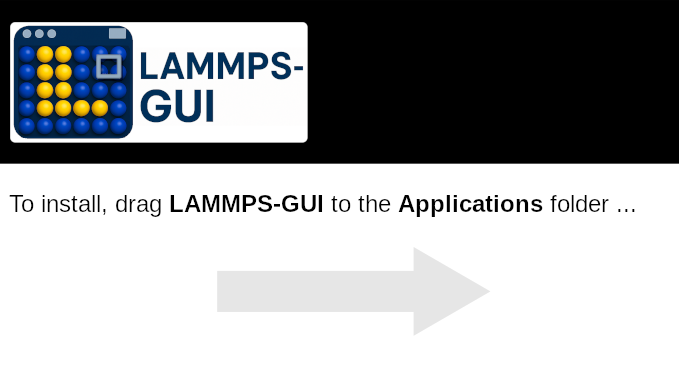
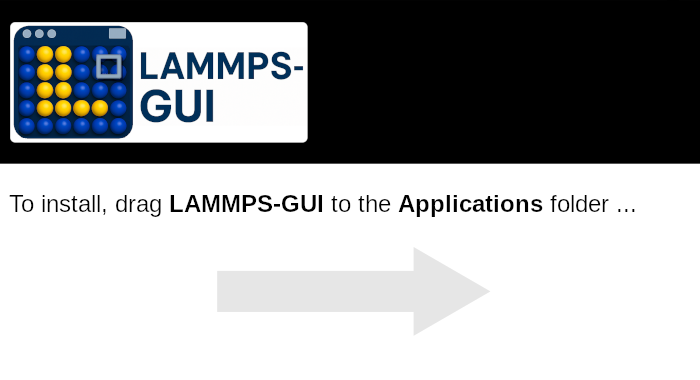
update background image and resize window one more time

diff --git a/packaging/dmg_settings.py b/packaging/dmg_settings.py
@@ -29,7 +29,7 @@ background = defines["background"]
 icon = defines.get("icon")
 
 # window width matches the background; the height adds ~24pt for the title bar
-window_rect = ((100, 100), (514, 340))
+window_rect = ((100, 100), (520, 350))
 default_view = "icon-view"
 show_status_bar = False
 show_tab_view = False
